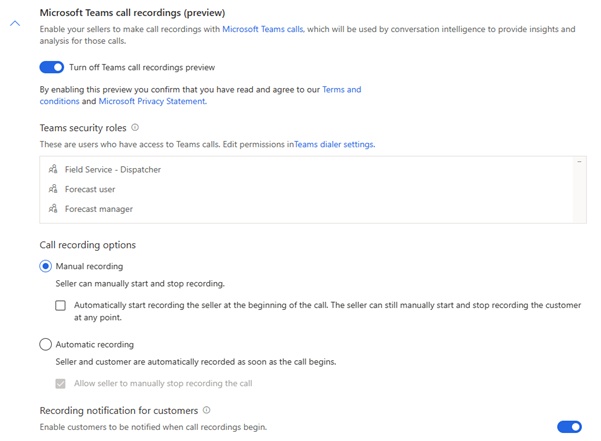
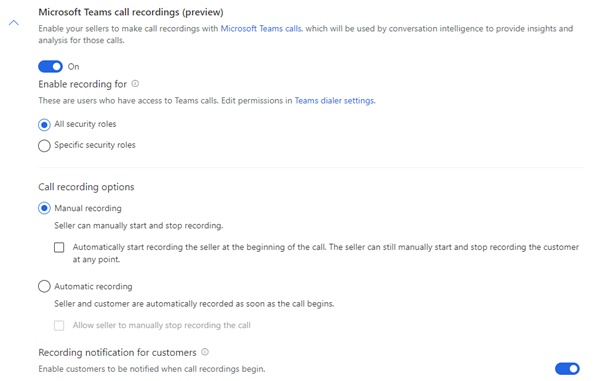
updated

Changed region(s): [[0.06, 0.0, 0.96, 0.9816], [0.9, 0.9528, 0.99, 1.0], [0.0, 0.0289, 0.03, 0.0577]]

diff --git a/ai-docs/sales/fre-setup-sales-insight-app.md b/ai-docs/sales/fre-setup-sales-insight-app.md
@@ -131,10 +131,10 @@ You can proceed to configure Teams with conversation intelligence.
 
     | Option | Description |
     |--------|-------------|
-    | Teams security roles | Specifies the security roles in your organization who have permission to use the Teams dialer. By default, permission is granted to all security roles in your organization. If you want to add or remove security roles, go to [Configure the dialer](/dynamics365/sales-enterprise/configure-microsoft-teams-dialer#configure-the-dialer). |
-    | Call recording options | Select an option to initiate call recordings:<br><ul><li>**Manual recording**: Select this option to allow sellers to manually start or stop the recording when a call is initiated. Also, you can select the checkbox to automatically record only the seller when the call is initiated. However, sellers can start or stop the recording of customer anytime during the call. </li><li>**Automatic recording**: Select this option if you want the calls to be automatically recorded when a call is initiated. Also, you can select the checkbox to allow sellers to manually stop recording anytime during the call.</li>|
-    | Recording notification for customers | Turn on this toggle to notify customers when the call recording is initiated. This lets customers know that the call is being recorded.|
-
+    | Enable recording for | Specifies the security roles in your organization who have permission to use the Teams dialer. By default, permission is granted to all security roles in your organization. To allow specific roles to access the feature select **Specific security roles** and then use the lookup to select the roles. <br> **Tips:**<br><ul><li>To implement the feature in your entire organization, select all security roles.</li><li>For a phased implementation in your organization, create different security roles for each group of users and then assign the security role accordingly.</li></ul>|
+    | Call recording options | Select an option to initiate call recordings:<br><ul><li>**Manual recording**: Select this option to allow sellers to manually start or stop the recording when a call is initiated. Also, you can select the checkbox to record only the seller automatically when the call is initiated. However, sellers can start or stop the recording of customer anytime during the call. </li><li>**Automatic recording**: Select this option if you want the calls to be automatically recorded when a call is initiated. Also, you can select the checkbox to allow sellers to manually stop recording anytime during the call.</li>|
+    | Recording notification for customers | Turn on this toggle to notify customers when the call recording is initiated. This lets customers know that the call is being recorded.|   
+    
     > [!div class="mx-imgBorder"]
     > ![Enable Teams call recording preview](media/ci-admin-enable-teams-preview.png "Enable Teams call recording preview")     
 
